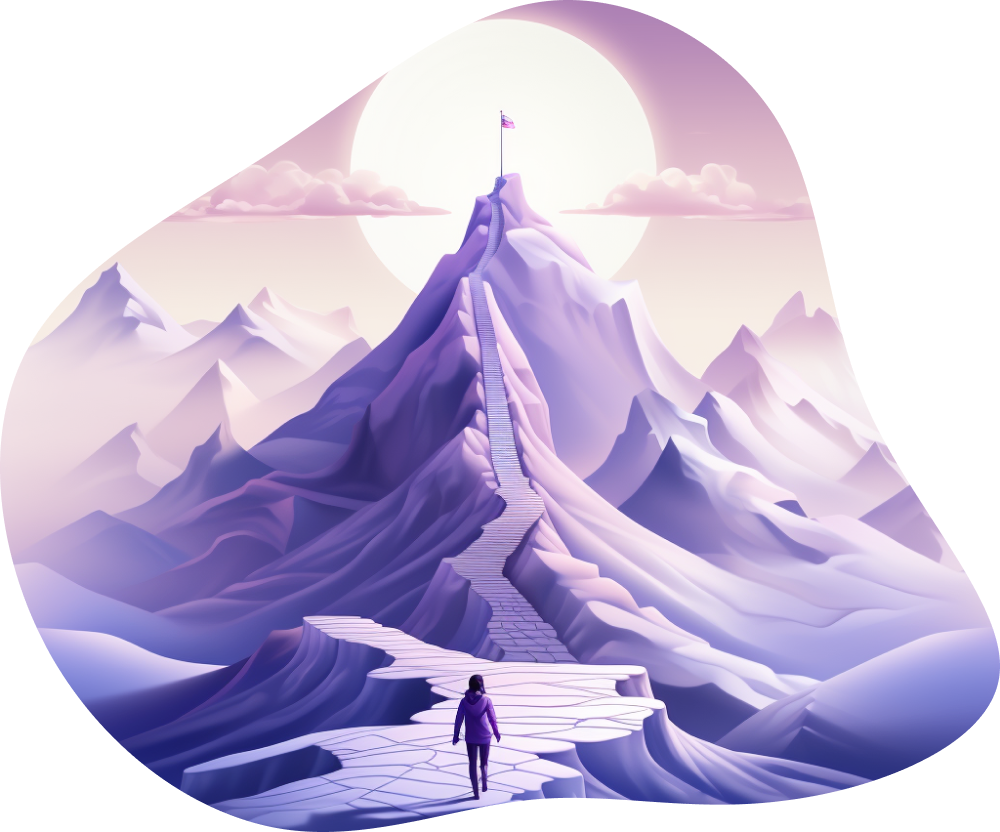
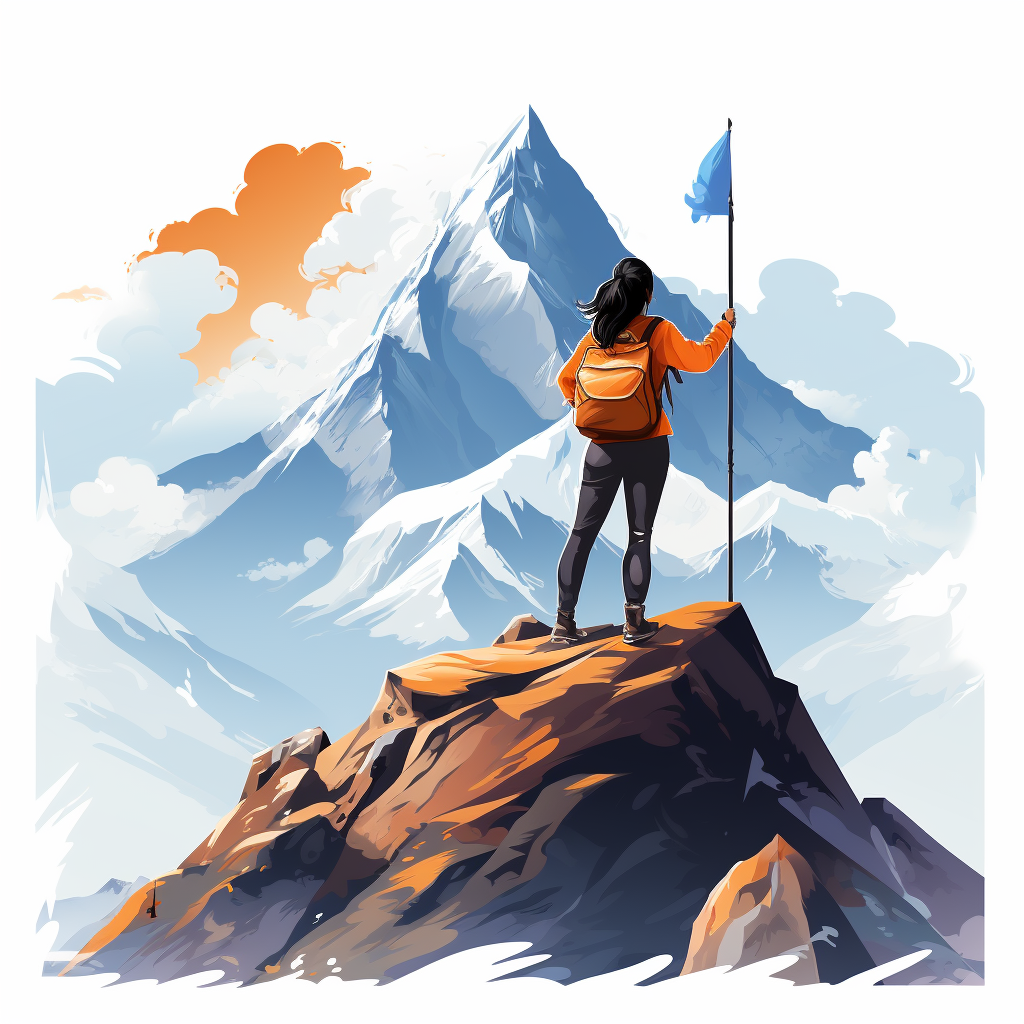
MAIN-T-41 : As User I want to see a clear onboarding screen

diff --git a/lib/src/onboarding/onboard_screen.dart b/lib/src/onboarding/onboard_screen.dart
@@ -2,8 +2,9 @@ import 'package:flutter/material.dart';
 import 'package:get/get.dart';
 import 'package:mastermind_together/src/onboarding/onboard_controller.dart';
 import 'package:mastermind_together/src/onboarding/onboard_page.dart';
-import 'package:mastermind_together/src/ui/widgets/custom_page_indicator.dart';
+import 'package:mastermind_together/src/ui/theme/sizes.dart';
 import 'package:mastermind_together/src/ui/theme/text_styles.dart';
+import 'package:mastermind_together/src/ui/widgets/custom_page_indicator.dart';
 
 class OnBoardScreen extends StatelessWidget {
   OnBoardScreen({super.key});
@@ -16,25 +17,25 @@ class OnBoardScreen extends StatelessWidget {
       init: OnBoardController(),
       builder: (controller) => Scaffold(
         body: Container(
-          padding: const EdgeInsets.only(bottom: 80),
+          padding: const EdgeInsets.only(bottom: 2 * fontSize),
           child: PageView(
             controller: pageController,
             onPageChanged: (index) => controller.onPageChanged(index),
             children: const [
               OnboardPage(
-                  color: Color(0XFFF8F8F2),
+                  color: Color(0XFFFEFEFE),
                   urlImage: 'assets/images/onboarding/onboard-1.png',
                   title: "Set Your Goal!",
                   subtitle:
                       "Start by defining what you want to achieve. Whether it's business, fitness, or personal growth, set a clear goal to get the most out of our platform."),
               OnboardPage(
-                  color: Color(0XFFEDEDE5),
+                  color: Color(0XFFF1EDED),
                   urlImage: 'assets/images/onboarding/onboard-2.png',
                   title: "Let Us Know When You're Available",
                   subtitle:
                       "Set your availability so we can find the perfect group that fits into your schedule. Whether you're an early bird or a night owl, we've got you covered."),
               OnboardPage(
-                  color: Color(0XFFDBDAC9),
+                  color: Color(0XFFFEFEFE),
                   urlImage: 'assets/images/onboarding/onboard-3.png',
                   title: "Join or Create Your Group",
                   subtitle: "Find groups that align with your goals and availability. Can't find the perfect fit? Create your own group and invite others!"),
@@ -44,7 +45,7 @@ class OnBoardScreen extends StatelessWidget {
         bottomSheet: controller.isLastPage
             ? Container(
                 color: drawerBgColor,
-                padding: const EdgeInsets.symmetric(horizontal: 80),
+                padding: const EdgeInsets.symmetric(horizontal: 2 * fontSize),
                 height: 80,
                 child: Row(
                   mainAxisAlignment: MainAxisAlignment.spaceBetween,
@@ -65,7 +66,7 @@ class OnBoardScreen extends StatelessWidget {
               )
             : Container(
                 color: drawerBgColor,
-                padding: const EdgeInsets.symmetric(horizontal: 80),
+                padding: const EdgeInsets.symmetric(horizontal: 2 * fontSize),
                 height: 80,
                 child: Row(
                   mainAxisAlignment: MainAxisAlignment.spaceBetween,

diff --git a/lib/src/onboarding/onboard_page.dart b/lib/src/onboarding/onboard_page.dart
@@ -40,15 +40,19 @@ class OnboardPage extends StatelessWidget {
               },
             ),
           ),
-          SizedBox(
-            width: screenWidth / 1.5,
-            child: Column(
-              children: [
-                xxxSpace,
-                Text(title, style: welcomeTextStyle, textAlign: TextAlign.left),
-                xSpace,
-                Text(subtitle, style: subtitleTextStyle, textAlign: TextAlign.left),
-              ],
+          ConstrainedBox(
+            constraints: const BoxConstraints(maxWidth: 600),
+            child: SizedBox(
+              width: screenWidth / 1.5,
+              child: Column(
+                children: [
+                  xxSpace,
+                  Text(title, style: welcomeTextStyle, textAlign: TextAlign.left),
+                  xSpace,
+                  Text(subtitle, style: subtitleTextStyle, textAlign: TextAlign.left),
+                  xxxSpace
+                ],
+              ),
             ),
           ),
         ],
